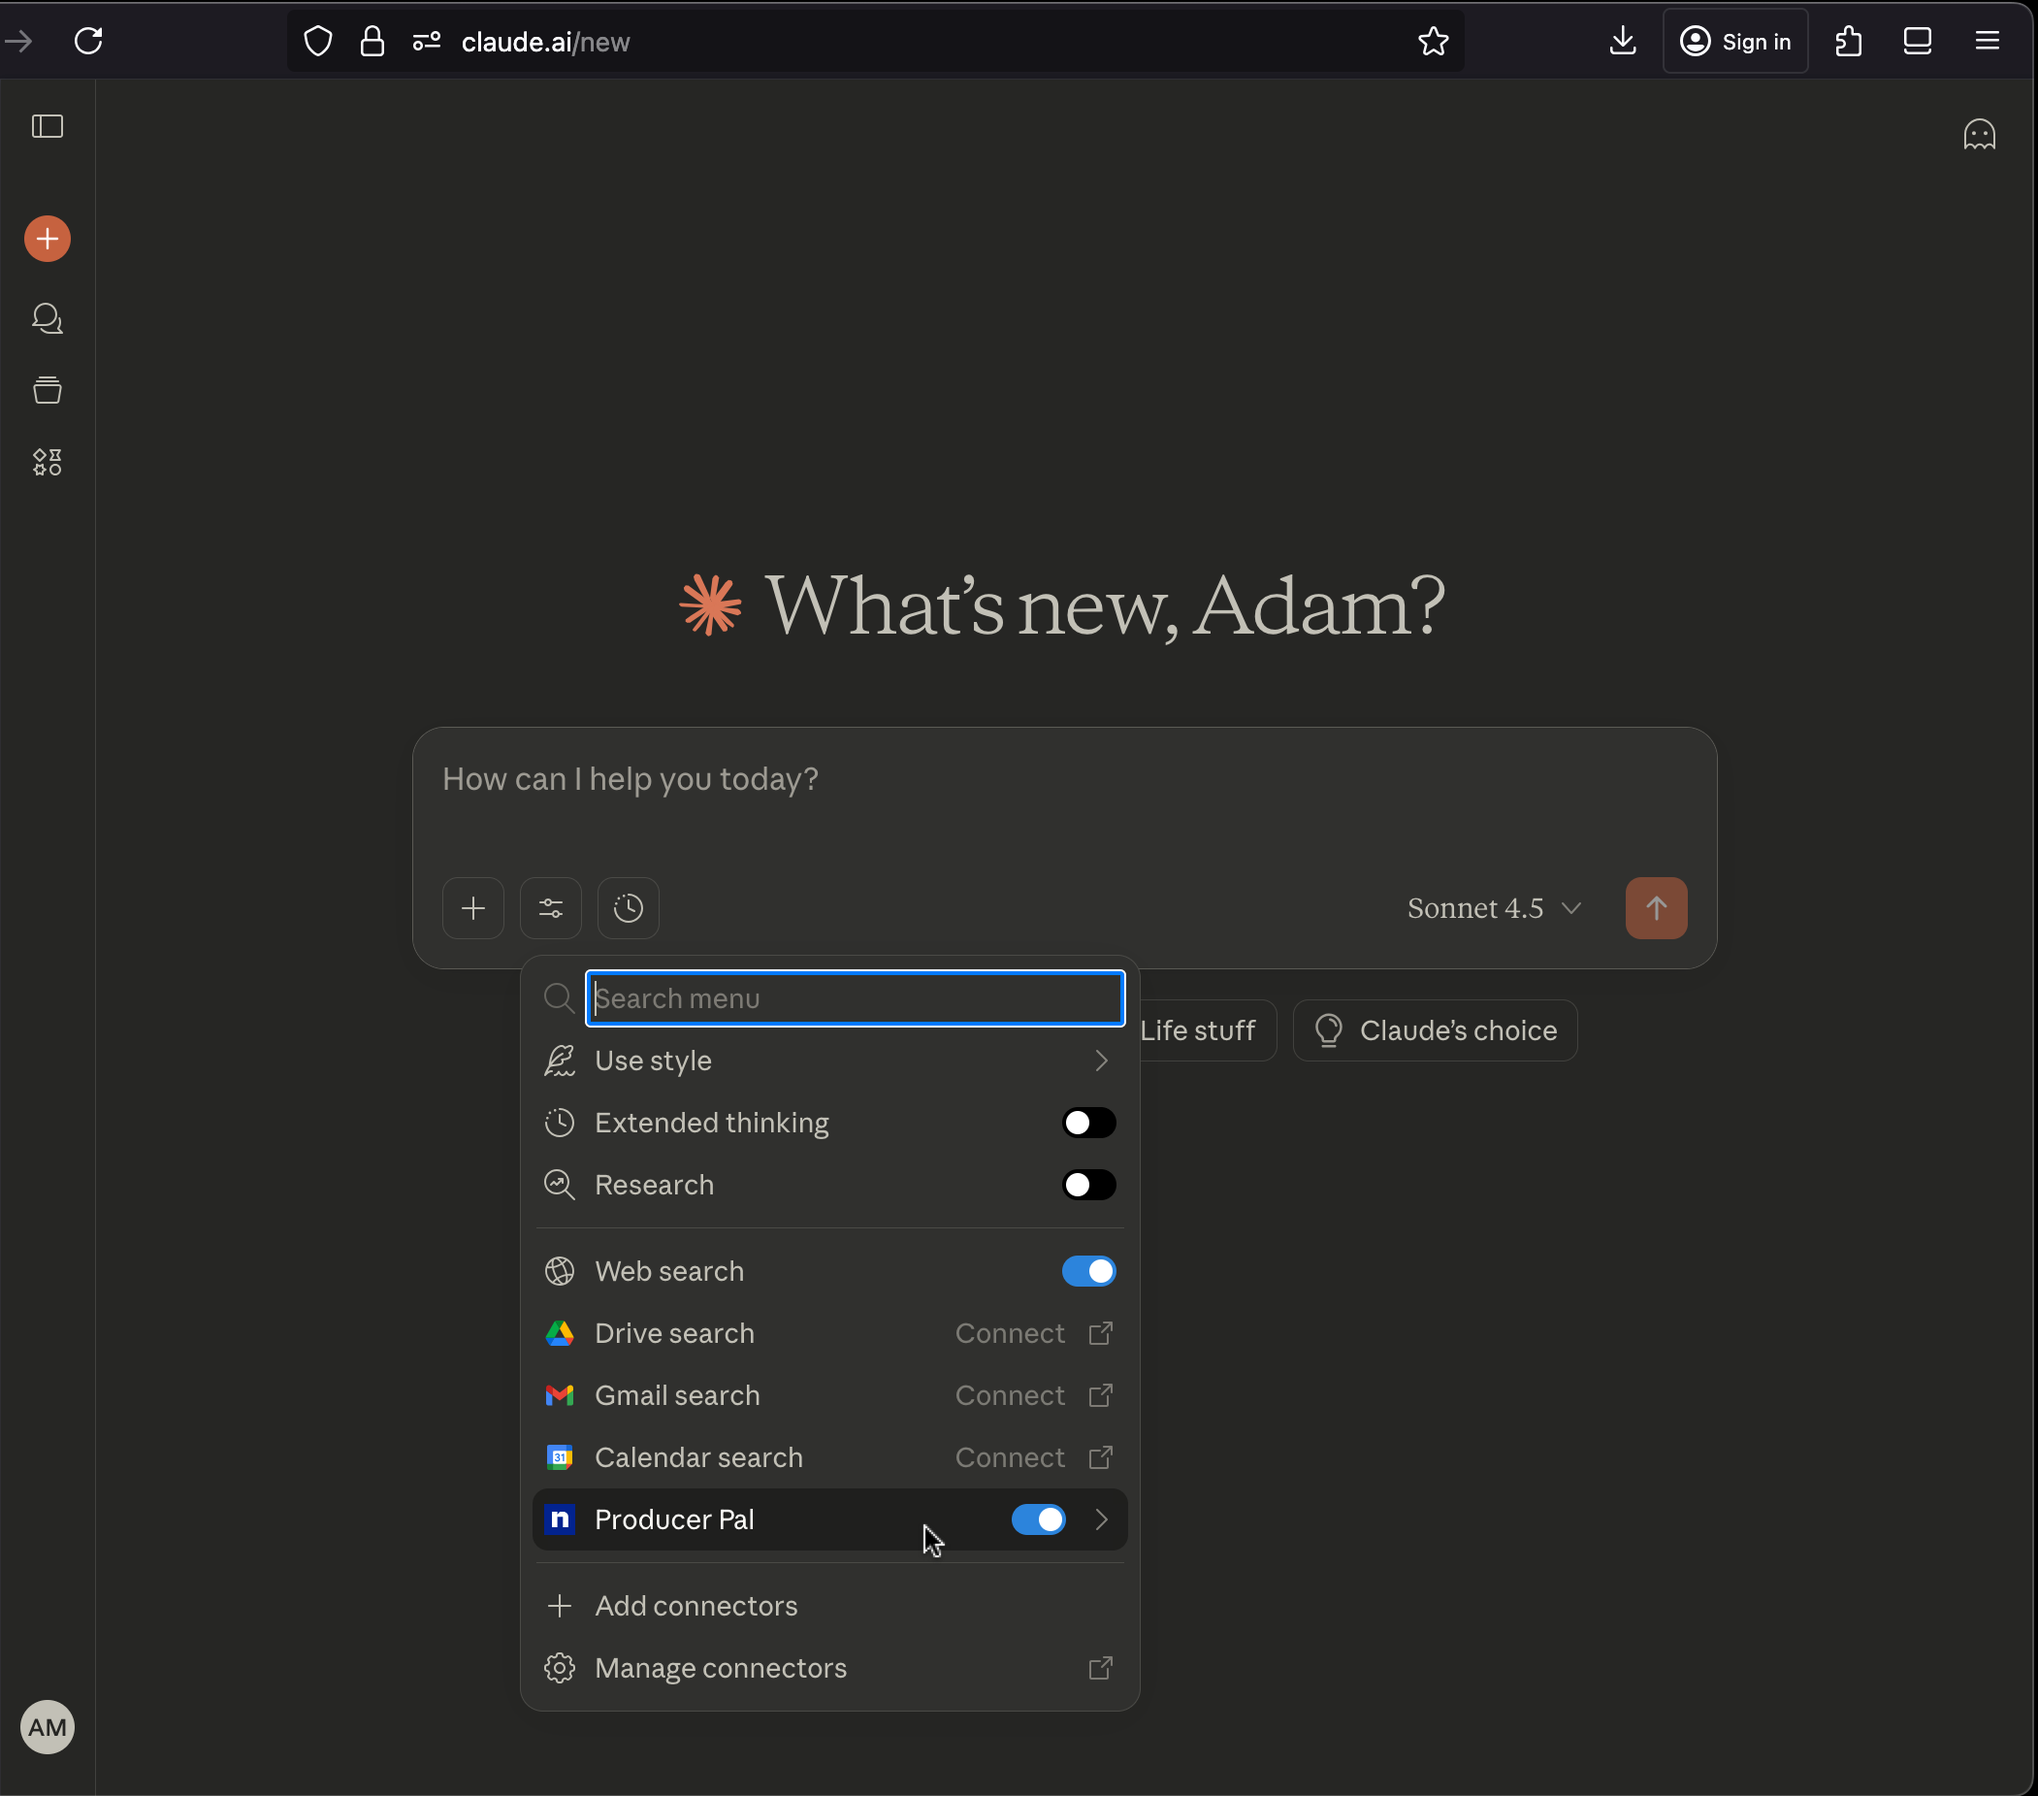
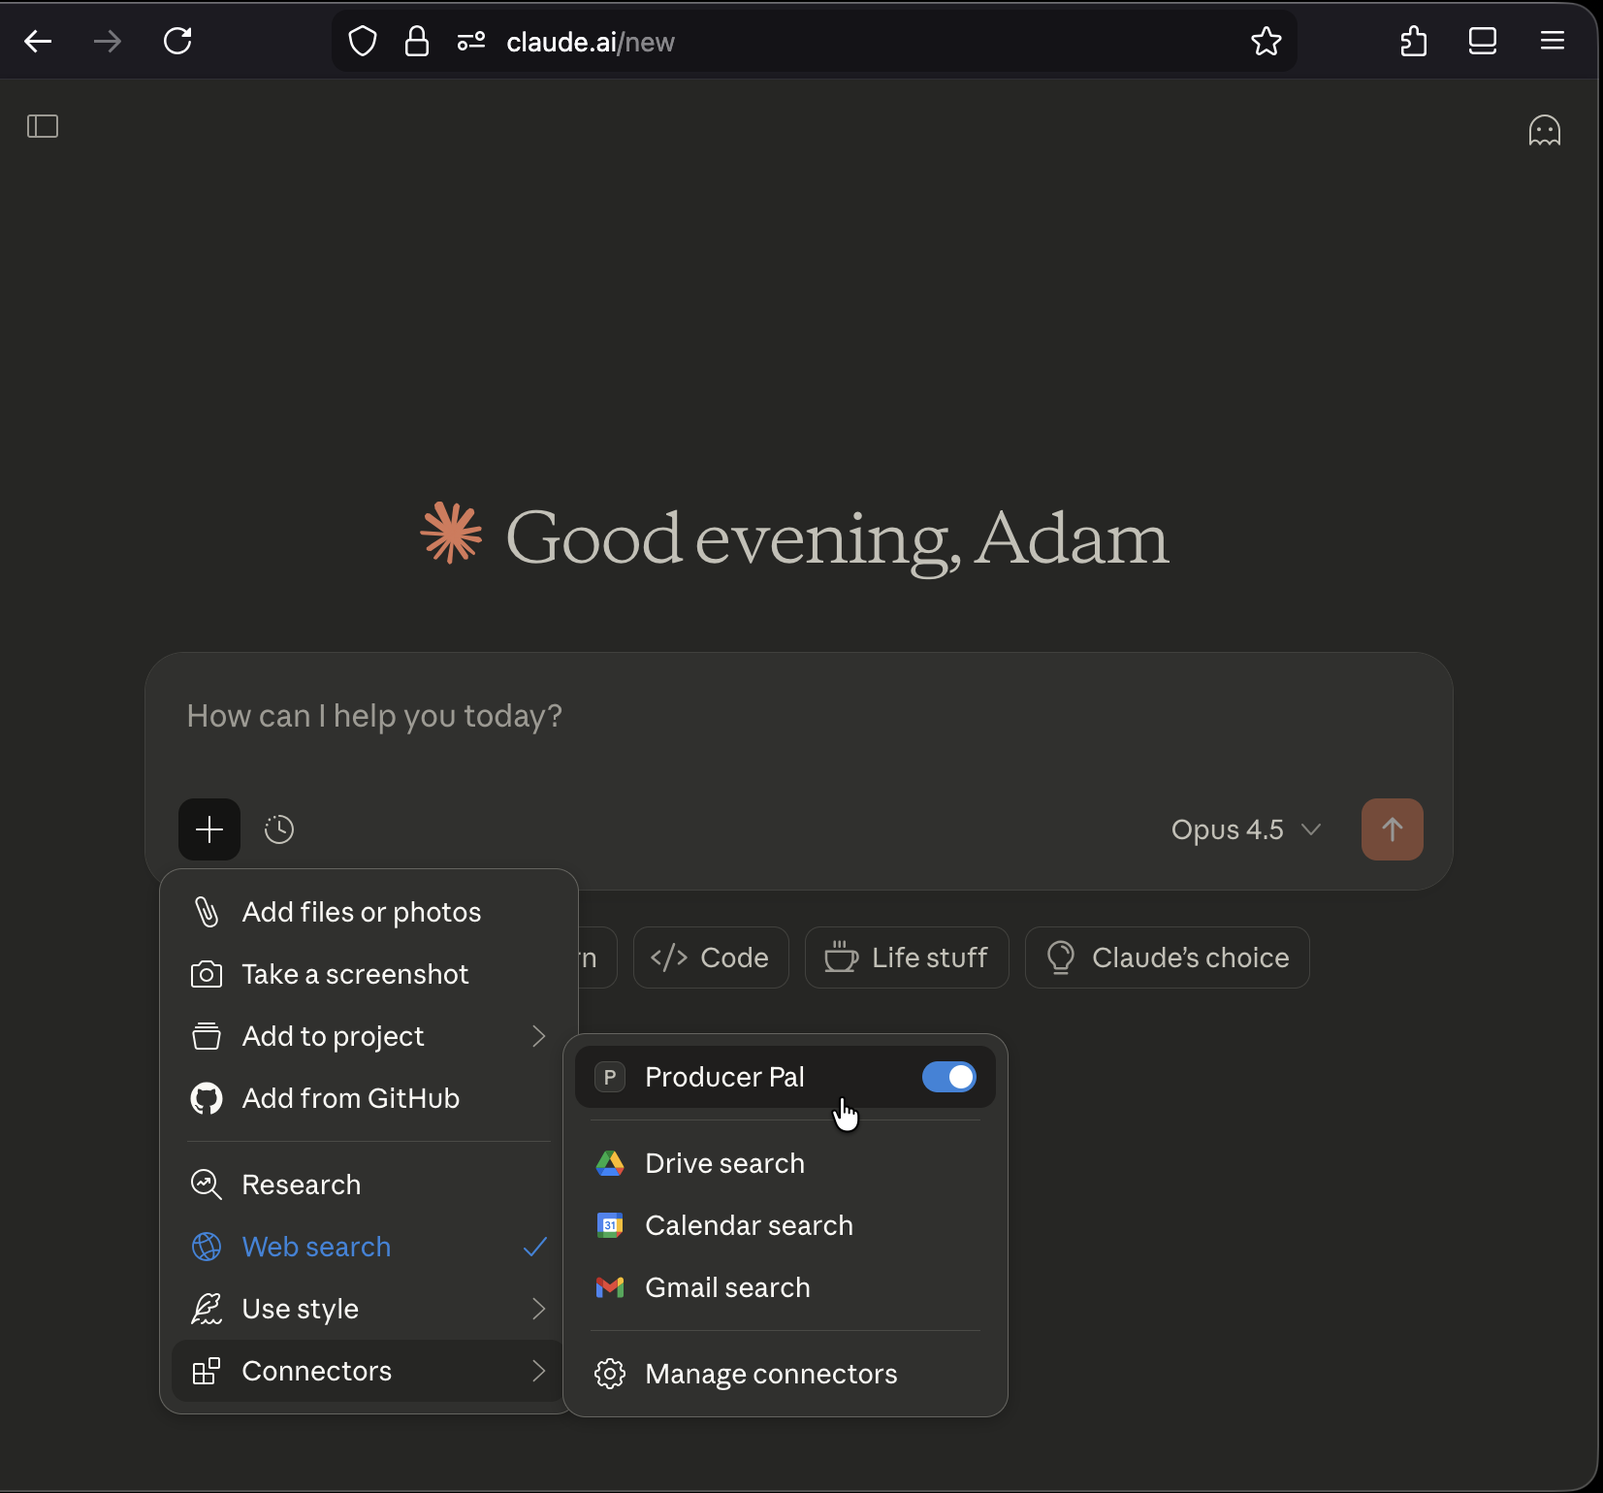
Update Claude Desktop and Claude Web screenshots

diff --git a/docs/installation/claude-web.md b/docs/installation/claude-web.md
@@ -48,8 +48,8 @@ will give you a public URL such as `https://abc-xyz.trycloudflare.com`:
 
 ### 4. Verify Installation
 
-You should see Producer Pal tools in Claude's "Search and Tools" menu (make sure
-it's enabled when starting a conversation):
+You should see Producer Pal tools in Claude's "Connectors" menu (make sure it's
+enabled when starting a conversation):
 
 ![Producer Pal tools in Claude web app](/claude-web-tool-list.png)
 

diff --git a/docs/installation/claude-desktop.md b/docs/installation/claude-desktop.md
@@ -58,8 +58,8 @@ extension only accesses Ableton Live through the Max for Live device.
 
 ### 5. Verify Installation
 
-You should see Producer Pal tools in Claude's "Search and Tools" menu (make sure
-it's enabled when starting a conversation):
+You should see Producer Pal tools in Claude's "Connectors" menu (make sure it's
+enabled when starting a conversation):
 
 ![Producer Pal tools in Claude](/tools-in-claude.png)
 
